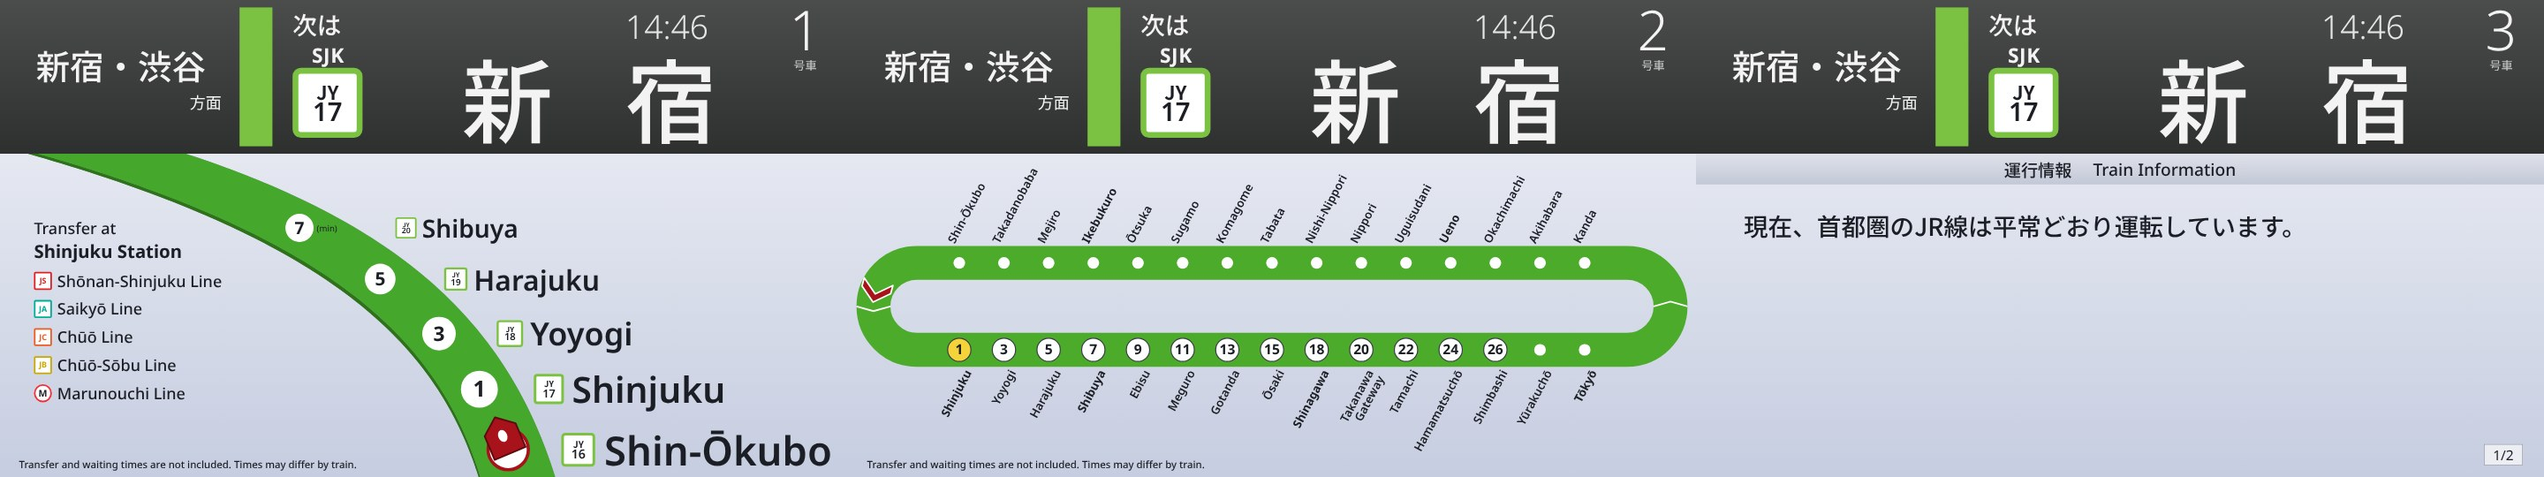
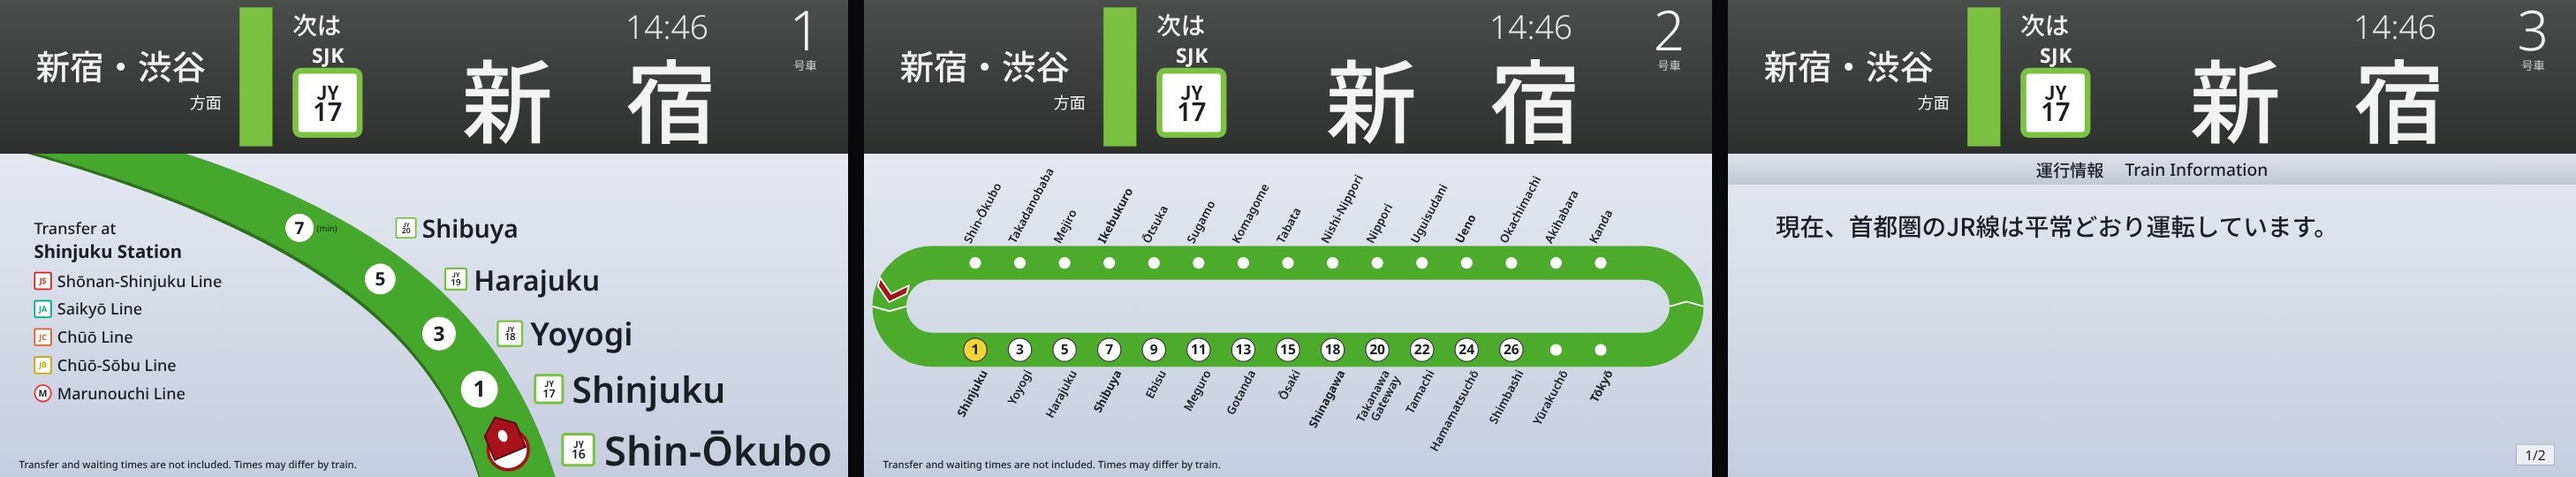
Train screen page: show bezels between monitors in preview, explain the Wait setting
Claude-Session: https://claude.ai/code/session_016hgJ9AGqjg7HSchkZFegFM

diff --git a/train-screen/index.html b/train-screen/index.html
@@ -171,7 +171,7 @@
   <p class="lede">A free Windows screensaver that recreates the passenger information screens on Tokyo's Yamanote Line E235 trains. It rides the real loop with all 30 stations, and every monitor becomes its own car.</p>
 
   <figure class="hero">
-    <img src="hero.jpg" width="2880" height="540" alt="Three monitors showing the train screen as cars 1, 2 and 3: the arc map, the loop map and train information, all approaching Shinjuku">
+    <img src="hero.jpg" width="2916" height="540" alt="Three monitors showing the train screen as cars 1, 2 and 3: the arc map, the loop map and train information, all approaching Shinjuku">
     <figcaption class="hero-cap">Three monitors, three cars: each one shows a different screen at the same moment.</figcaption>
   </figure>
 
@@ -226,7 +226,7 @@
   <ol class="steps">
     <li>Download the zip and unzip it. Copy <b>TrainScreen.scr</b> somewhere it can stay, like <code>C:\Windows</code> (Windows will ask for admin approval). If you install it from your Downloads folder and later delete it, the screensaver stops working.</li>
     <li>Right-click <b>TrainScreen.scr</b> and choose <b>Install</b>. Screen Saver Settings opens with <b>Yamanote Line Train Screen</b> selected.</li>
-    <li>Click <b>Settings...</b> to set brightness and the clock style, pick a wait time, then click <b>OK</b>. Use <b>Preview</b> to try it right away and move the mouse to exit.</li>
+    <li>Click <b>Settings...</b> to set the brightness and clock style. Back in Screen Saver Settings, the <b>Wait</b> box sets how many minutes your PC sits idle before the screensaver starts. Click <b>OK</b> when you're done. Use <b>Preview</b> to try it right away, and move the mouse to exit.</li>
   </ol>
   <div class="note">
     <b>"Windows protected your PC"?</b> That message shows up for any small program that isn't code-signed, which costs a yearly fee most hobby projects skip. Click <b>More info</b>, then <b>Run anyway</b>. Some browsers also warn about downloading screensaver files, which is why it comes in a zip.
